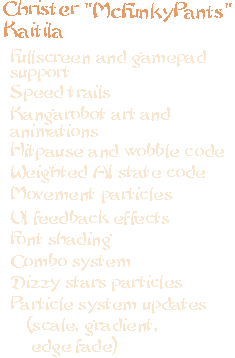
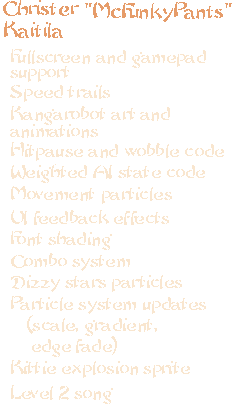
Commented cheat inputs. Updated credits. Changed some inputs for Gamepad support.

diff --git a/js/GameStates.js b/js/GameStates.js
@@ -6,9 +6,6 @@ function InGameState() {
     var justEntered; //hackity hack
 
 
-    //this.background = Images.getImage("moonlitForest");
-
-
     this.currentLevel;
 
     this.update = function () {
@@ -39,14 +36,15 @@ function InGameState() {
             console.log('Space pressed during tutorial: skipping to end of current line.');
             tutorial.hurryUp(); // skip to next line
         }
+        
+        if (Input.getKeyDown("enter")) {
+            return GameStates.pauseState;
+        }
 
+        /*
         if (Input.getKeyDown("q")) {
             debug = !debug;
             //return GameStates.endGameState;
-        }
-
-        if (Input.getKeyDown("p")) {
-            return GameStates.pauseState;
         }
 
         // W stands for "win"
@@ -62,7 +60,7 @@ function InGameState() {
             return GameStates.endGameState; // hmm fades to white but never ends or inits
         }
 
-/*
+
         // D stands for "die" :P
         if (Input.getKeyDown("d")) {
             return GameStates.gameOverState;
@@ -143,11 +141,11 @@ function PauseState() {
     };
 
     this.handleInput = function () {
-        if (Input.getKeyDown("p")) {
-            return GameStates.inGameState;
-        }
-        if (Input.getKeyDown("escape")) {
+        if (Input.getKey("z") && Input.getKey("x") && Input.getKey("enter")) {
             return GameStates.mainMenuState;
+        }
+        else if (Input.getKeyDown("enter")) {
+            return GameStates.inGameState;
         }
     };
 
@@ -392,7 +390,7 @@ function CreditsState() {
 
     this.handleInput = function () {
 
-        if (Input.getKeyDown("enter") || Input.getKeyDown("escape")) {
+        if (Input.getKeyDown("x") || Input.getKeyDown("escape")) {
             return GameStates.mainMenuState;
         }
 
@@ -475,7 +473,7 @@ function GameOverState() {
 
     this.handleInput = function () {
 
-        if (Input.getKeyDown("escape")) {
+        if (Input.getKeyDown("enter")) {
             return GameStates.mainMenuState;
         }
 
@@ -603,7 +601,7 @@ function OptionsState() {
         //console.log("OptionsState.update");
     };
     this.handleInput = function () {
-        if (Input.getKeyDown("enter") || Input.getKeyDown("escape")) {
+        if (Input.getKeyDown("escape")) {
             return GameStates.mainMenuState;
         }
 
@@ -796,8 +794,8 @@ function StorySequenceState() {
             return GameStates.inGameState;
         }
 
-        if (Input.getKeyDown("space")) {
-            console.log('Space pressed during StorySequence: skipping to end of current line.');
+        if (Input.getKeyDown("z")) {
+            console.log('Z pressed during StorySequence: skipping to end of current line.');
             activeSequence.hurryUp(); // skip to next line
         }
 

diff --git a/js/EnemyStates.js b/js/EnemyStates.js
@@ -54,25 +54,6 @@ function IdleEnemyState(parent, relatedStates) {
 
         //return idleStateWeightedChoices[Math.floor(Math.random() * idleStateWeightedChoices.length)];
 
-        // PLAYER example input detection for reference:
-        /*
-        if (Input.getKey("up")){
-            return states.jumpState;
-        }
-        else if (Input.getKey("down")) {
-            return states.crouchState;
-        }
-        else if (Input.getKeyDown("z")) {
-            return states.punchState;
-        }
-
-        else if (Input.getKey("left") || Input.getKey("right")) {
-            return states.walkState;
-        }
-        else if (Input.getKey("down")) {
-            return states.crouchState;
-        }
-        */
     }
 
     this.onHit = function () {
@@ -114,31 +95,6 @@ function WalkEnemyState(parent, relatedStates) {
 
     this.handleInput = function () {
 
-
-
-
-        // PLAYER version that uses inputs for reference:
-        /*
-        if (Input.getKey("up")) {
-            return states.jumpState;
-        }
-        else if (Input.getKey("down")) {
-            return states.crouchState;
-        }
-        else if (Input.getKeyDown("z")) {
-            return states.punchState;
-        }
-
-        if (Input.getKey("left")) {
-            parent.velocity.x = -parent.walkSpeed;
-        }
-        else if (Input.getKey("right")) {
-            parent.velocity.x = parent.walkSpeed;
-        }
-        else {
-            return states.idleState;
-        }
-        */
 
     }
 

diff --git a/js/Tutorial.js b/js/Tutorial.js
@@ -35,7 +35,7 @@ function MessageSequence(messages) {
                 console.log('Reached the end of the sequence!');
                 if (this.holdLastMessage) {
                     this.stage = messages.length -1;
-                    this.nextTimestamp = 100000;
+                    this.nextTimestamp = now + 100000000;
                 }
                 else {
                     this.end();

diff --git a/js/Character.js b/js/Character.js
@@ -58,7 +58,6 @@ function Character(x, y) {
 
         // "dizzy stars" above their head when vulnerable to knockup
         if (this.canBeKnockedUp) {
-            //console.log('spawning dizzy stars: canBeKnockedUp!');
             var starz = createParticleEmitter(this.x, this.y - 10, dizzyParticlesConfig);
         }
 

diff --git a/js/Engine/GamepadSupport.js b/js/Engine/GamepadSupport.js
@@ -20,6 +20,7 @@ function GamepadSupport() {
     var SIMULATED_KEY_B_BUTTON = keycodes.z;
     var SIMULATED_KEY_X_BUTTON = keycodes.x;
     var SIMULATED_KEY_Y_BUTTON = keycodes.enter;
+    //var SIMULATED_KEY_START_BUTTON = keycodes.p;
 
     // internal states
     var gamepad = null;
